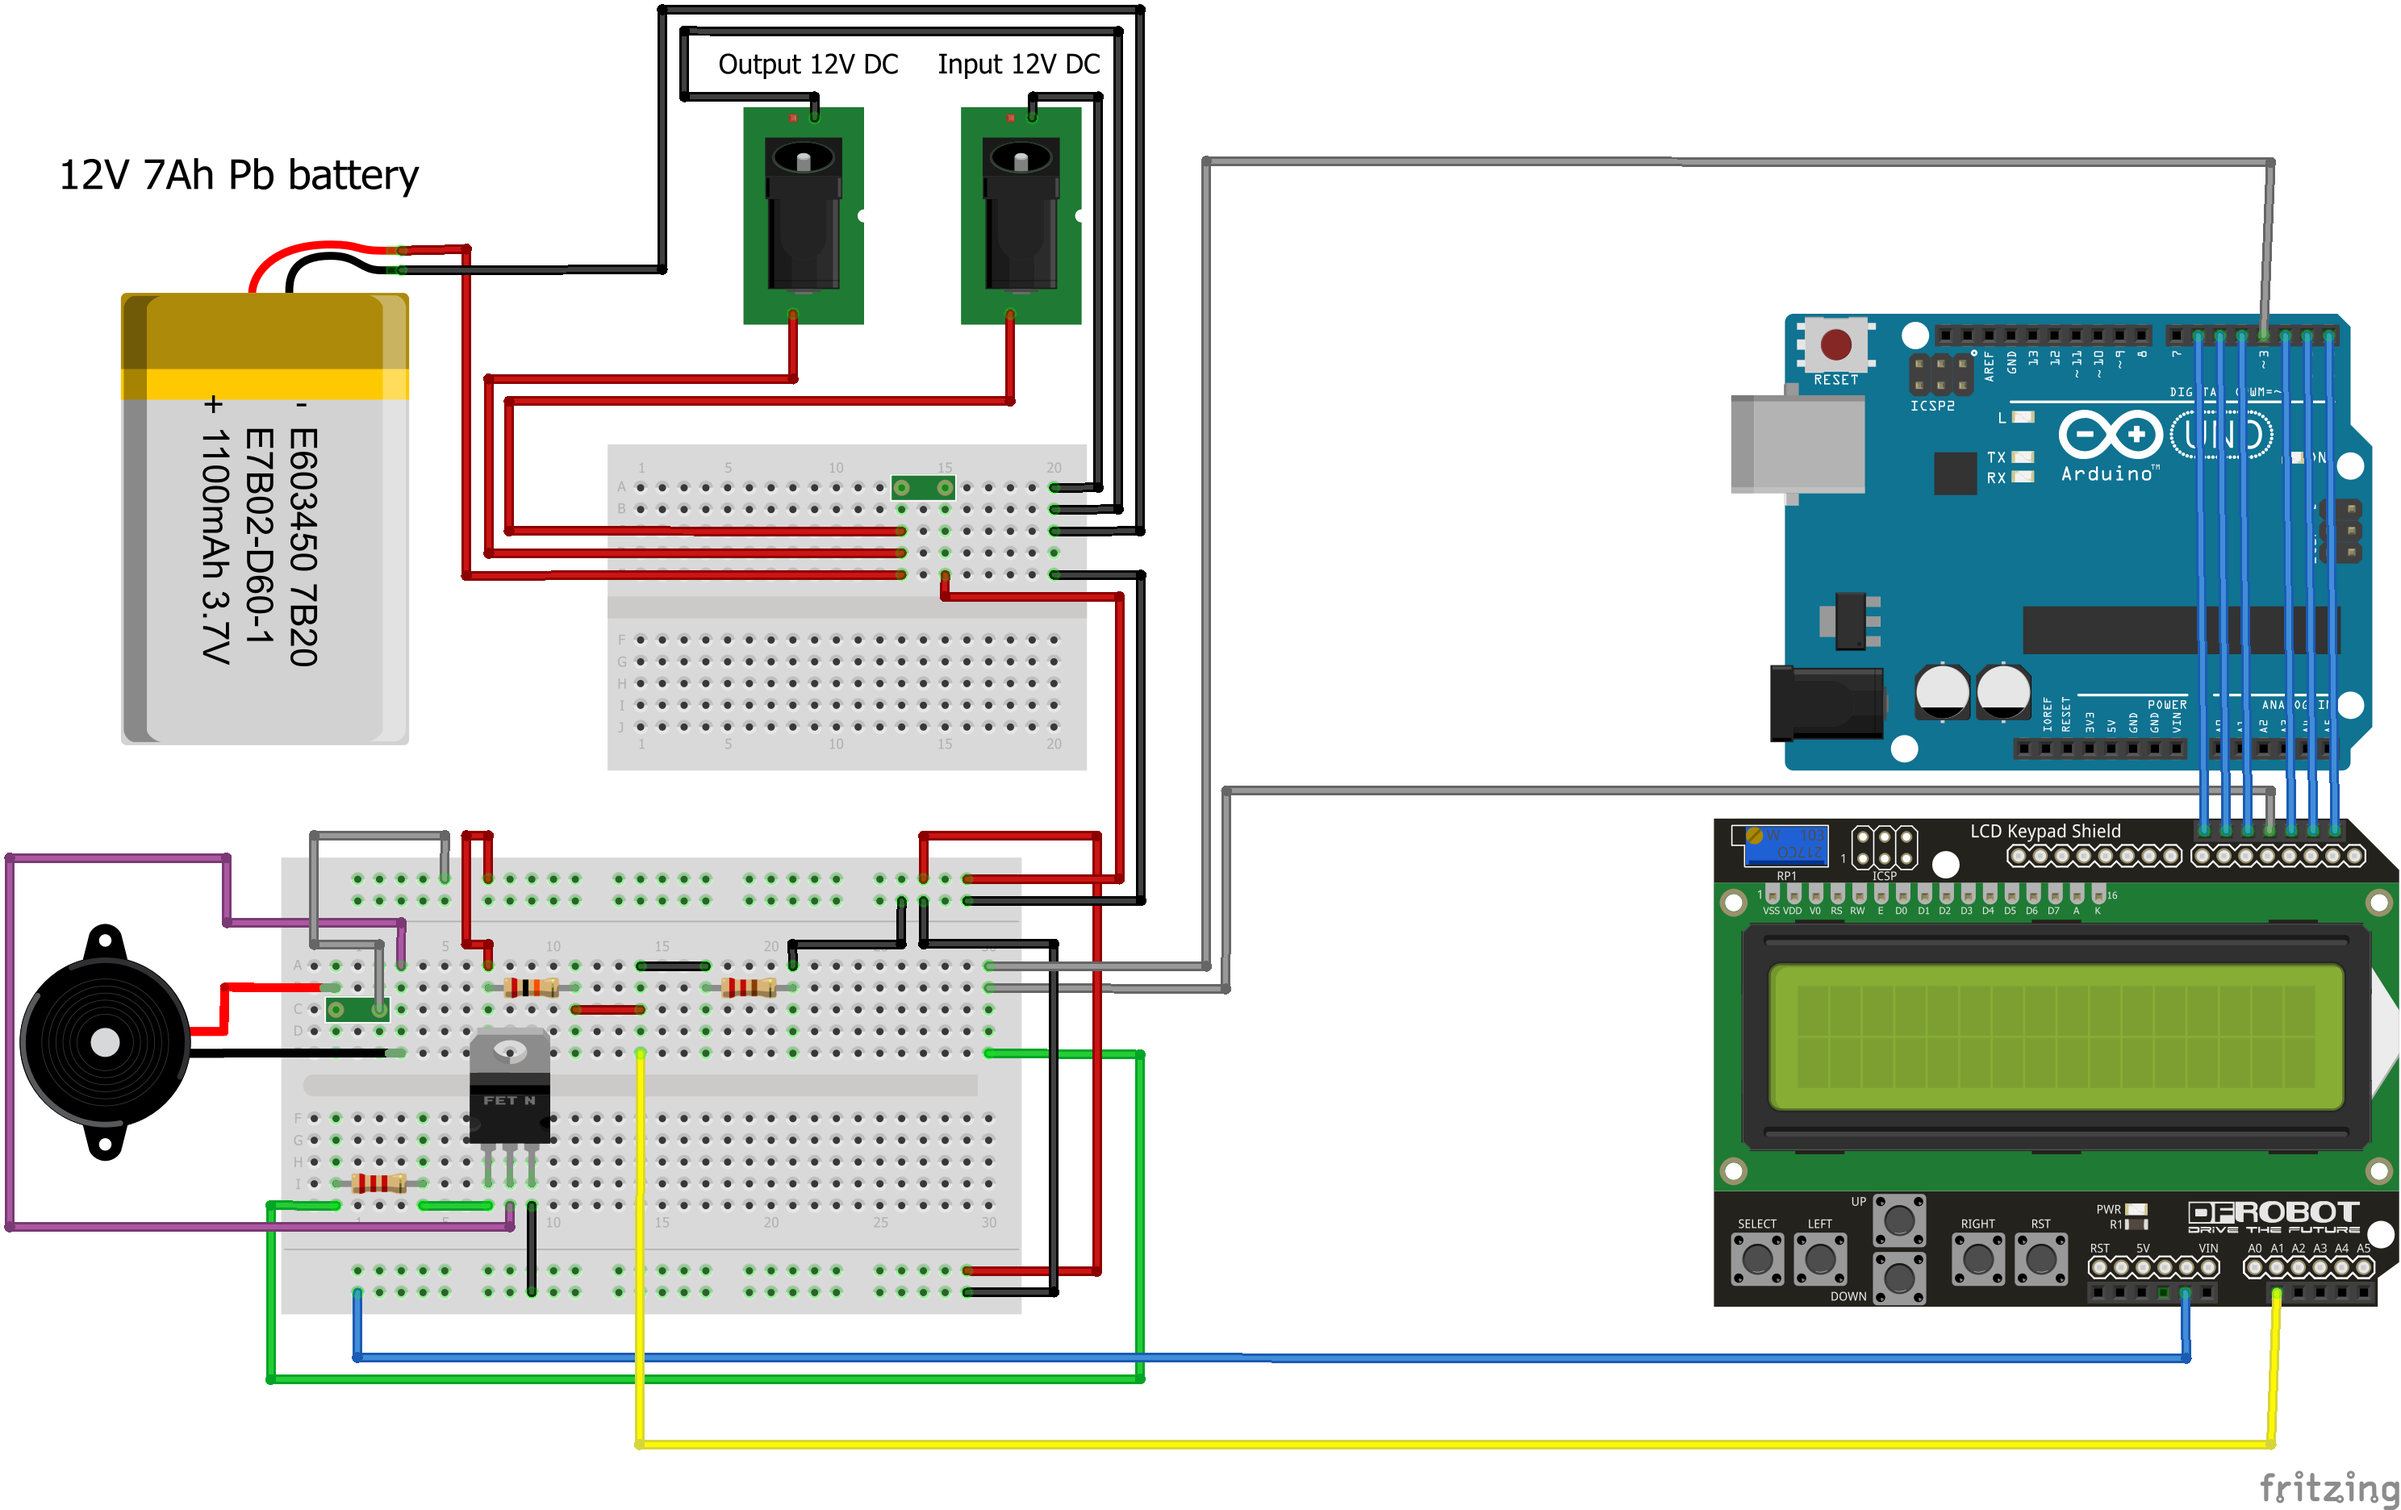
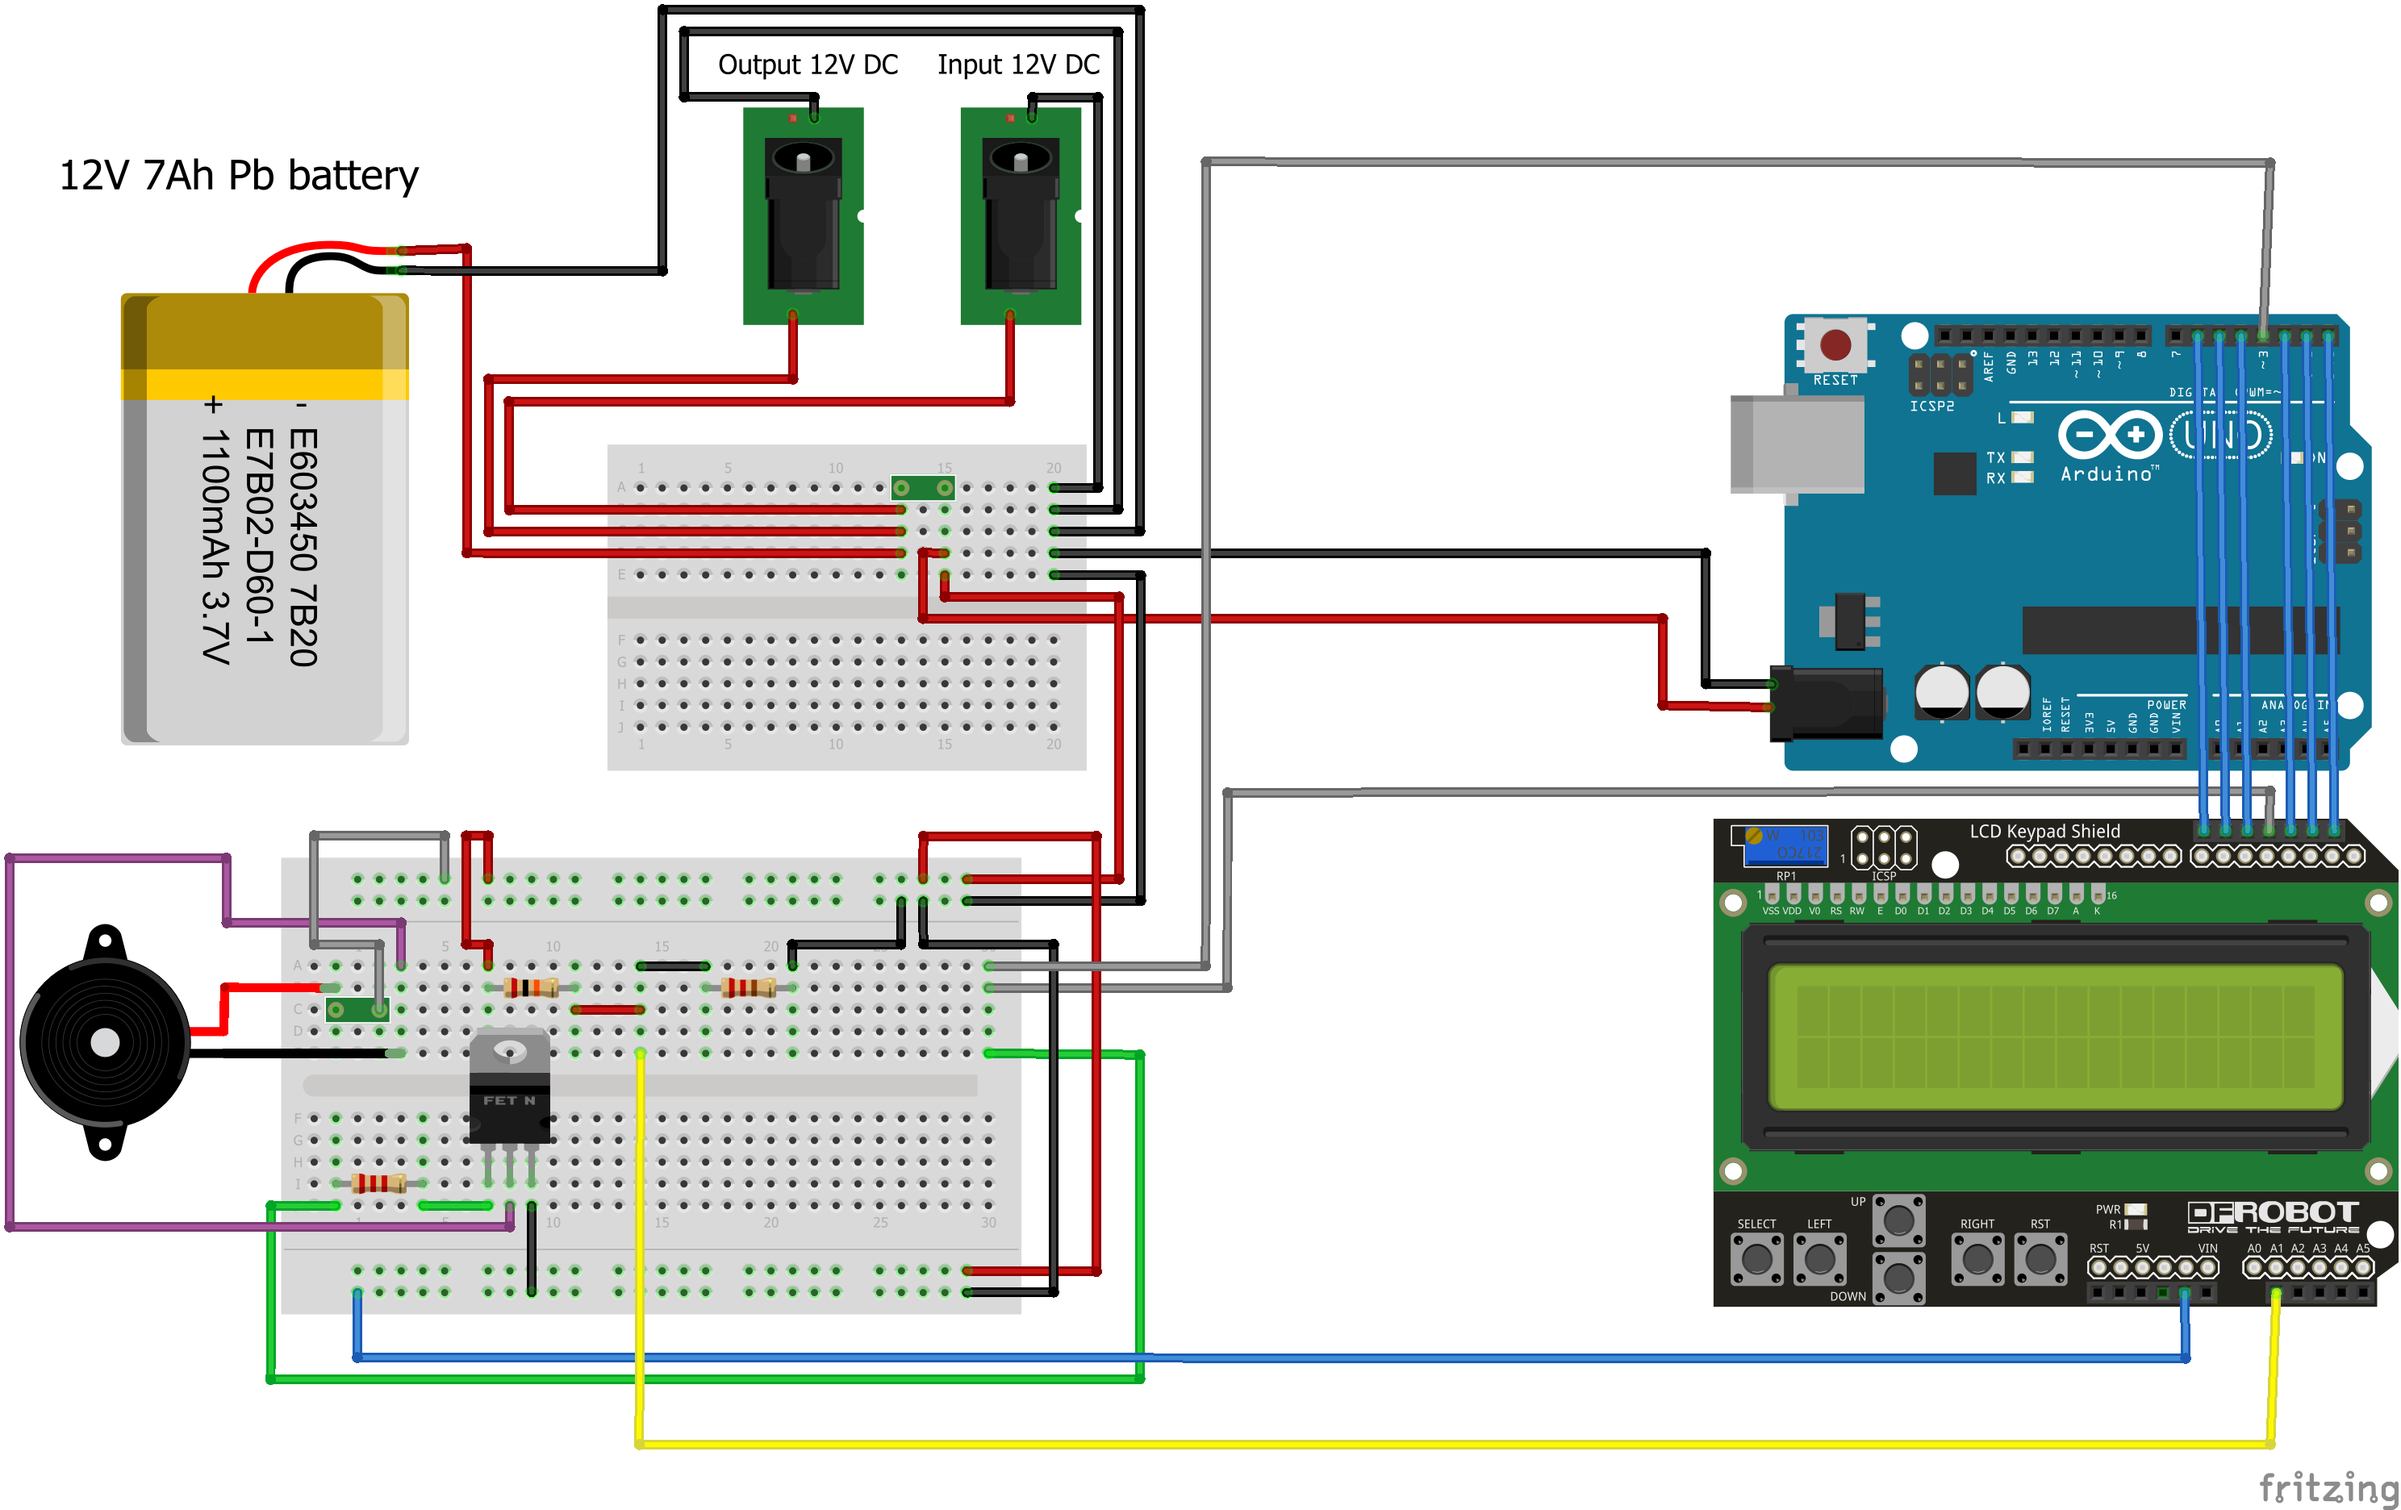
going strong

diff --git a/README.md b/README.md
@@ -12,6 +12,7 @@ Every aspect of this project is thoroughly explained in this documentation.
 ## Parts
 * Old UPS (or a box to put everything in)
 * 12V 7Ah battery
+* 12V power brick
 * Arduino Uno
 * LCD Keypad Shield
 * Breadboard (using a smaller one)
@@ -31,11 +32,34 @@ Every aspect of this project is thoroughly explained in this documentation.
 
 ![Physical scheme](https://raw.githubusercontent.com/kyberdrb/Arduino_UPS/master/hw_doc/Arduino_UPS_bb.png)
 
-TODO deep explanation of my scheme
+#### Power circuit
+The power from the power brick goes into "Input 12V DC" jack. Then it leads to the polymer fuse. From there it
+goes to the bread board and Arduino Uno power jack. The LCD Keypad Shield is directly connected to the Arduino
+board. The LCD Keypad Shield is used for user interaction.
+
+#### Voltage measuring
+For voltage measuring I used voltage divider, which uses Ohm's law.
+
+The calculation and the picture of the scheme for voltage measuring is shown below.
+
+<TODO calculation>
+
+<TODO picture>
+
+#### Buzzer
+A N-channel MOSFET was needed to drive a buzzer, which was rated for 12V.
+
+<TODO picture>
 
 The physical scheme ([Arduino_UPS.fzz](https://github.com/kyberdrb/Arduino_UPS/raw/master/hw_doc/Arduino_UPS.fzz)) has been made with the help of **_Fritzing_**.
 
 # Software documentation
+## Voltage measuring
+Description of voltage measuring code.
+
+## Buzzer
+Description of buzzer code.
+
 ## Activity diagram
 
 ![Activity diagram](https://github.com/kyberdrb/Arduino_UPS/raw/master/sw_doc/Arduino_UPS_activity_diagram.png)
